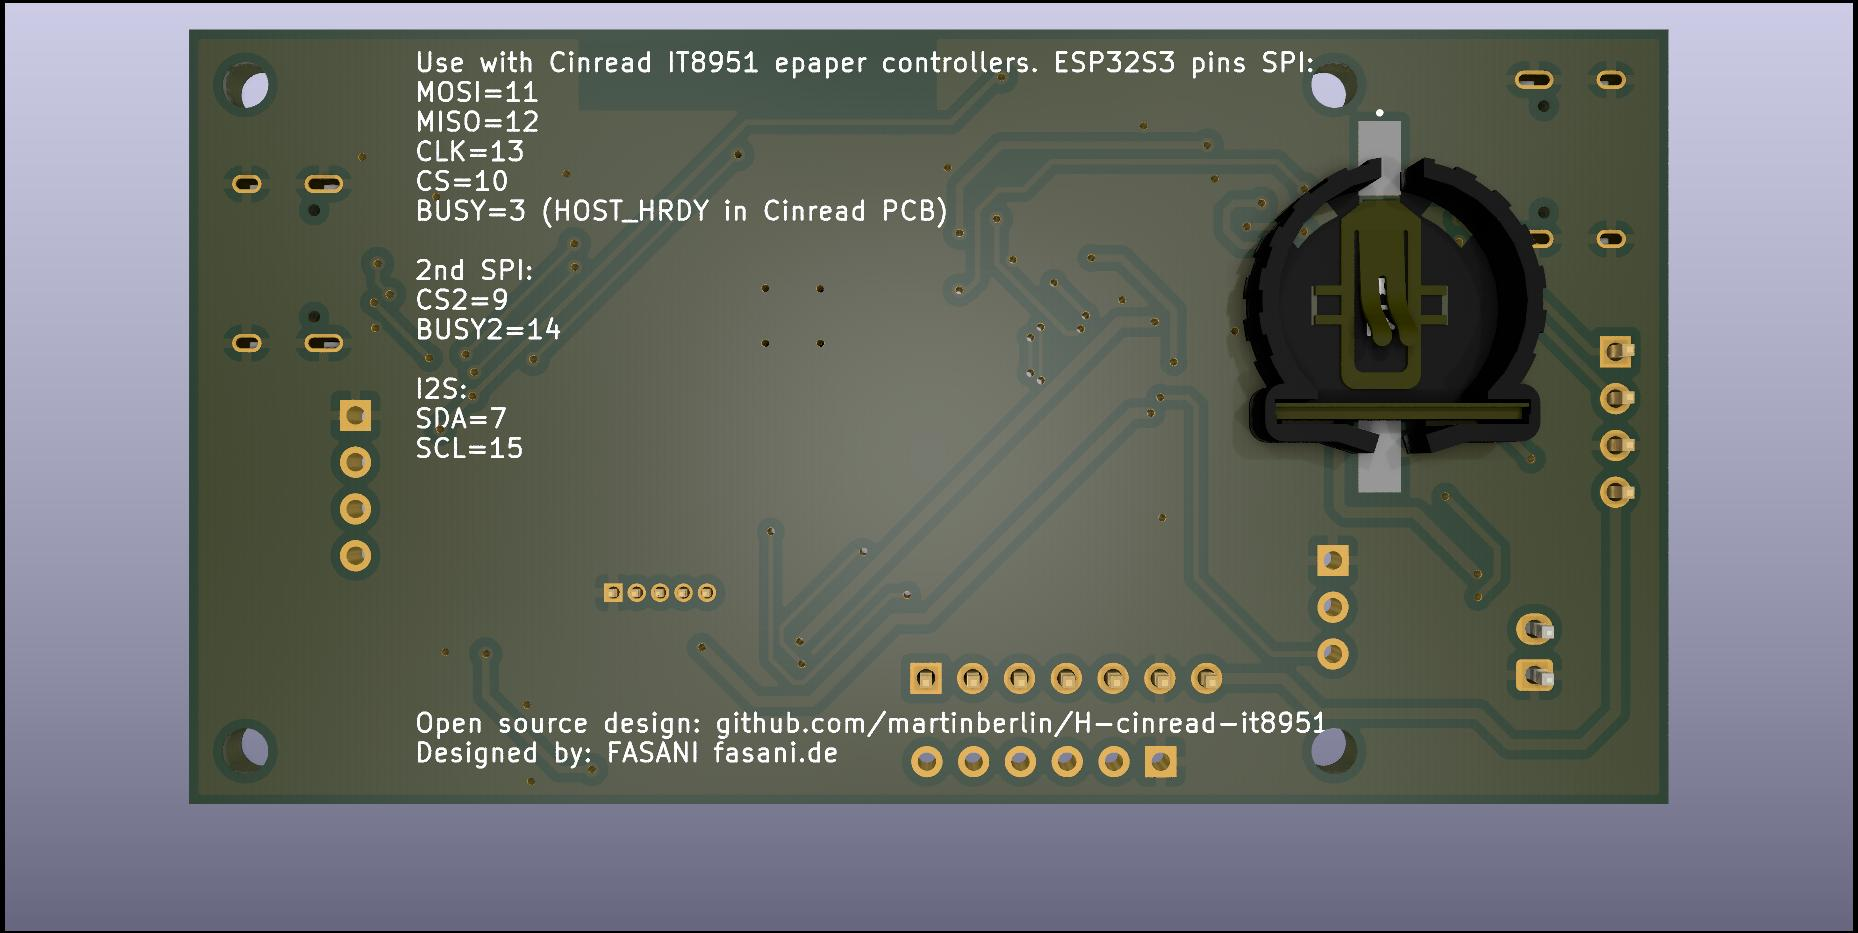
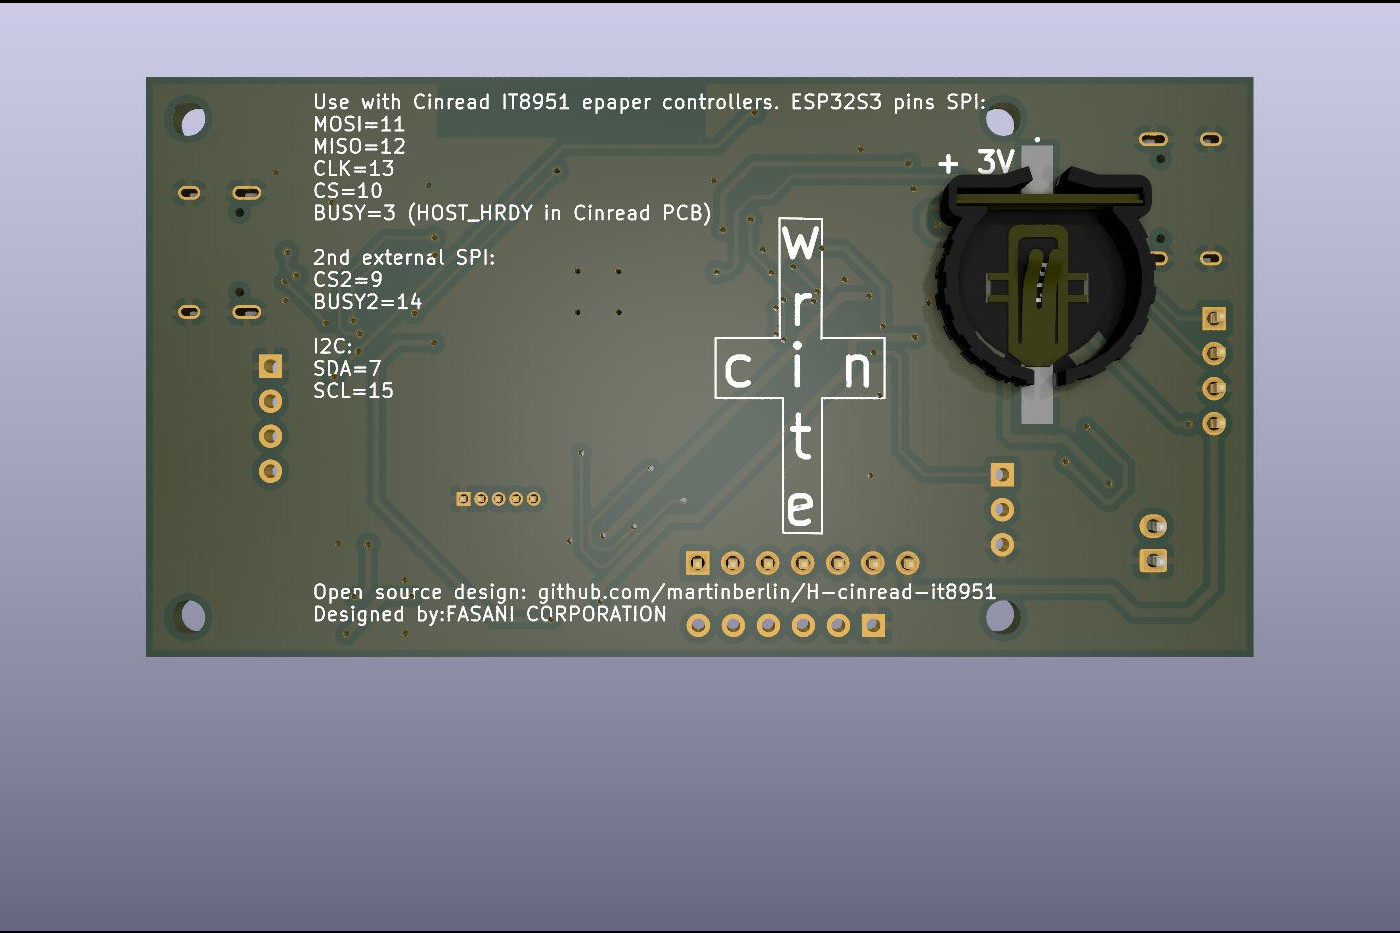
Add link in readme to S2 idea. Update 3D views

Changed region(s): [[0.0921, 0.0311, 0.9214, 0.8703], [0.9829, 0.0, 1.0, 0.9946], [0.3071, 0.5284, 0.3993, 0.5595]]

diff --git a/README.md b/README.md
@@ -18,6 +18,8 @@ Please refer to the following image to the correct SPI labels:
 
 ![Corrected labels](components/assets/cinread-correct-IO.jpg)
 
+Important: I only tested this with one Cinread PCB but there are now 3 more coming. So it's possible that the SPI initial issue I had was mostly sticking to the wrong labels, sending SPI Clock via MOSI, which will of course never work. On the new ones that are coming I will try to send SPI data without making any hardware modifications and just using the right PINs.
+
 ## Ideas that could be added to the schematic
 
 Provided by colleagues [Larry Bank](https://github.com/bitbank2) and [Lovyan03](https://github.com/lovyan03)
@@ -77,3 +79,6 @@ Meet [epaper weather station](https://github.com/martinberlin/epaper-weather-sta
 
 [Schematics](/Schematic/IT8951-S3-HAT-Schematic.pdf)
 
+### Would you like an S2 budget version
+
+If you are interested on having a more budget version of this controller I have an idea to step down fabrication price. Please check [Issue #1](https://github.com/martinberlin/H-cinread-it8951/issues/1) and use the thumb up or write a message to confirm that you are interested. Also take the time to think if there is any other cool addition that we can make to the S2 version.
